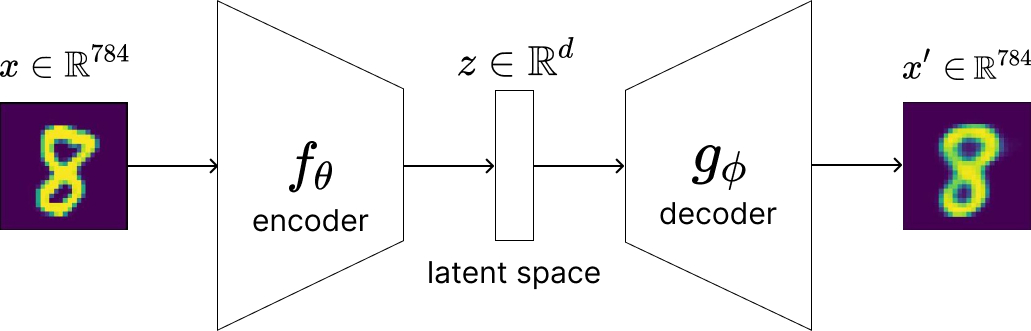
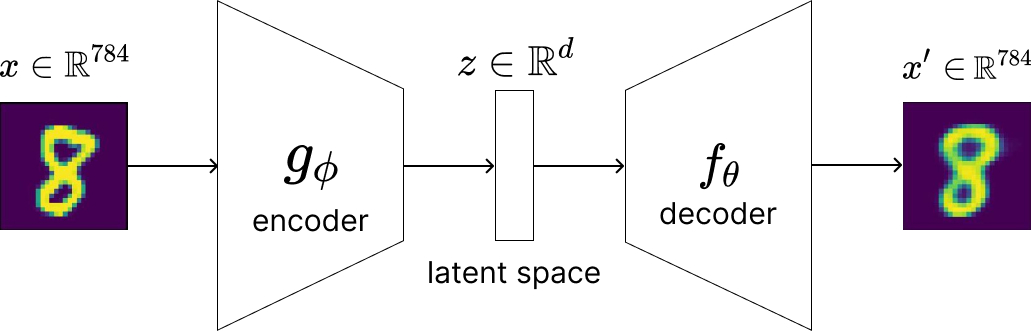
working on readme

Changed region(s): [[0.6518, 0.423, 0.7449, 0.574], [0.2793, 0.423, 0.3414, 0.574]]

diff --git a/README.md b/README.md
@@ -57,20 +57,21 @@ a set of labels $Y$ (even if they exist).
     <i> Figure 2. Simplified diagram of an autoencoder. </i>
 </p>
 
-It is composed of two separate neural networks: an encoder $f_{\theta}$ and decoder $g_{\phi}$, which
-are typically symmetric (but not always) and have opposite roles.
+It is composed of two separate neural networks: an encoder $g_{\phi}$ and 
+decoder $f_{\theta}$, which are typically symmetric (but not always) and have 
+opposite roles.
 
 #### Encoder
-An encoder is a non-linear mapping $f_{\theta}: X \mapsto Z$, parameterized by 
-$\theta$. The primary function of the encoder is to "encode" data $X$ 
+An encoder is a non-linear mapping $g_{\phi}: X \mapsto Z$, parameterized by 
+$\phi$. The primary function of the encoder is to "encode" data $X$ 
 into its compact latent representation $Z$, by learning the most salient features of $X$.
 A good encoder will produce similar latent representations for similar inputs (and vice versa), 
 meaning that different latent representations will be closer, or farther way from each other
 in the latent space, depending on how similar, or dissimilar their inputs are.
 
 #### Decoder
-A decoder is also a linear mapping $g_{\phi}: Z \mapsto X$, parameterized by 
-$\phi$, and can loosely be thought of as the inverse process. The primary function 
+A decoder is also a linear mapping $f_{\theta}: Z \mapsto X$, parameterized by 
+$\theta$, and can loosely be thought of as the inverse process. The primary function 
 of the decoder is to "decode" latent representation $Z$ created by the encoder, 
 and reconstruct $X$ from it. Like the encoder, a good decoder will be able to generate
 similar reconstructions for similar latent representations, and vice versa.
@@ -171,7 +172,7 @@ encoder will tend to produce a discrete latent space that makes it difficult
 to smoothly interpolate between points, even in close proximity. In the following section,
 we will see how tweaking the encoder to be probabilistic (rather than deterministic)
 and enforcing the structure of the latent space to be gaussian, radically improves
-interpolation of the encoder and extrapolation of decoder.
+interpolate/extrapolation.
 
 
 ### Variational Autoencoders
